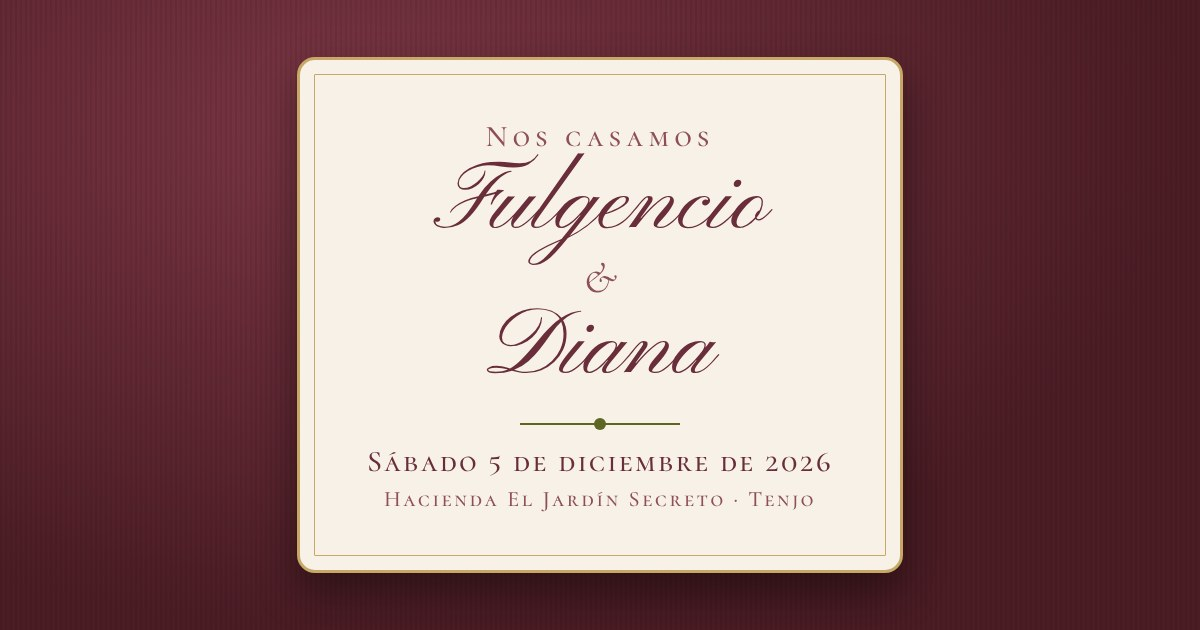
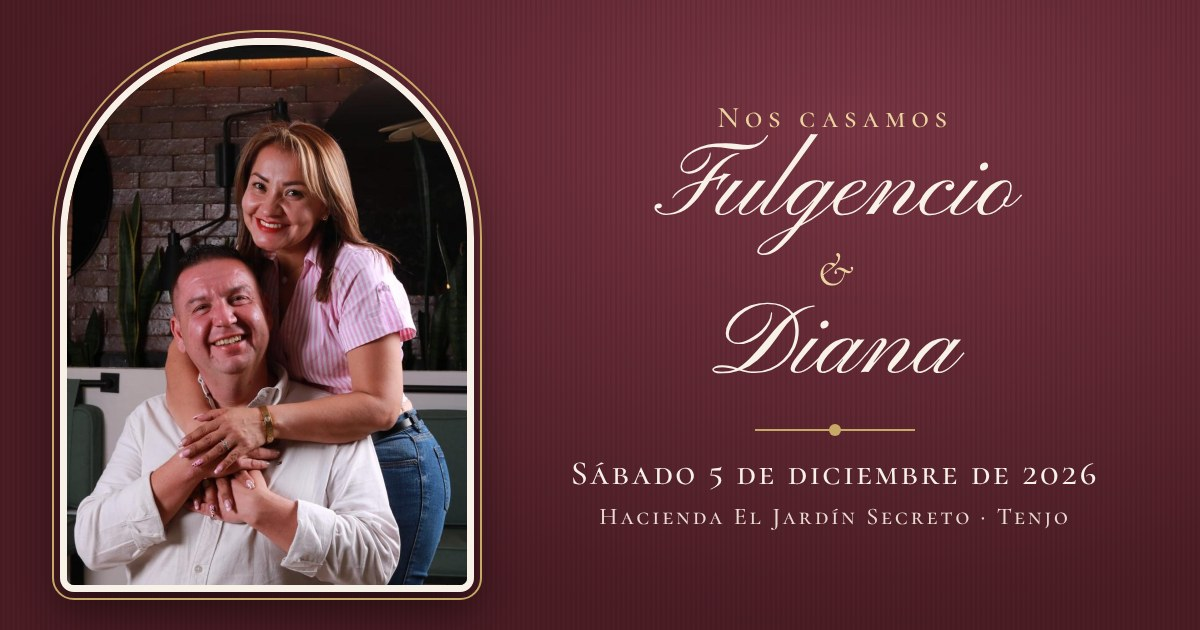
Fulgencio & Diana: foto de portada y vista previa de WhatsApp con foto
Claude-Session: https://claude.ai/code/session_01CRn6ZWBhAV1Uw6H2qoCVkz

diff --git a/invitacion/fulgencio-y-diana-rxz/index.html b/invitacion/fulgencio-y-diana-rxz/index.html
@@ -181,6 +181,15 @@ p{margin:0 0 1rem}
 .btn-musica:hover{background:var(--vino)}
 .btn-musica[hidden]{display:none}
 
+/* Foto de portada: arco con doble filete dorado */
+.foto-portada{
+  position:relative;width:min(300px,84vw);aspect-ratio:3/4;margin:2.6rem auto 0;
+  border-radius:999px 999px 14px 14px;overflow:hidden;
+  border:6px solid var(--papel);outline:1.5px solid var(--oro);outline-offset:5px;
+  box-shadow:0 18px 36px rgba(20,6,10,.45);background:var(--vino);
+}
+.foto-portada img{width:100%;height:100%;object-fit:cover;object-position:50% 30%}
+
 /* ===================== PANEL FECHA (calendario en arco) ===================== */
 .p-fecha{background:var(--papel)}
 .p-fecha .ramas{position:absolute;inset:0;width:100%;height:100%;color:var(--oliva);opacity:.28}
@@ -505,6 +514,10 @@ p{text-wrap:pretty}
     </div>
     <p class="frase">“Y sobre todas estas cosas vestíos de amor, que es el vínculo perfecto.”</p>
     <p class="cita">Colosenses 3:14</p>
+    <!-- Foto de portada (portada.jpg, vertical) en arco con filete dorado -->
+    <div class="foto-portada">
+      <img src="portada.jpg" alt="Fulgencio y Diana sonriendo, ella lo abraza por detrás" width="800" height="1200" decoding="async" fetchpriority="high">
+    </div>
   </section>
 
   <!-- ===================== FECHA ===================== -->

diff --git a/invitacion/fulgencio-y-diana-rxz/README.md b/invitacion/fulgencio-y-diana-rxz/README.md
@@ -18,7 +18,7 @@ Link por invitado: `…/fulgencio-y-diana-rxz/?para=Familia%20Pérez&cupos=3`
 ## Pendientes antes de publicar
 
 - [x] Galería "Nosotros": 6 fotos recibidas el 5 nov (`foto-1` a `foto-6`, `foto-4` es la horizontal del atardecer en la ciudad).
-- [ ] Foto de portada: pendiente, la envían aparte. Definir con Karen dónde va (la portada actual es el sobre y el marco con los nombres).
+- [x] Foto de portada (`portada.jpg`): en arco dorado debajo del versículo, y también en la vista previa de WhatsApp (`og-imagen.jpg`).
 - [ ] `cancion.mp3`: la pareja debe enviar el archivo de audio (no se puede usar el link de YouTube) y confirmar que tiene derecho a usarla. Suena desde el inicio. Sin archivo, el botón de música no aparece.
 - [ ] Hoja de confirmaciones: crear con `docs/rsvp-hoja-google.md`, pegar la URL `/exec` en `EVENTO.hojaUrl` (`invitacion.js`) y compartir la hoja con kmarin290@gmail.com. Probar 2 envíos y borrarlos.
 - [ ] Álbum del QR (lo crea el estudio): pegar el link en `EVENTO.albumUrl` y generar el QR para imprimir.
